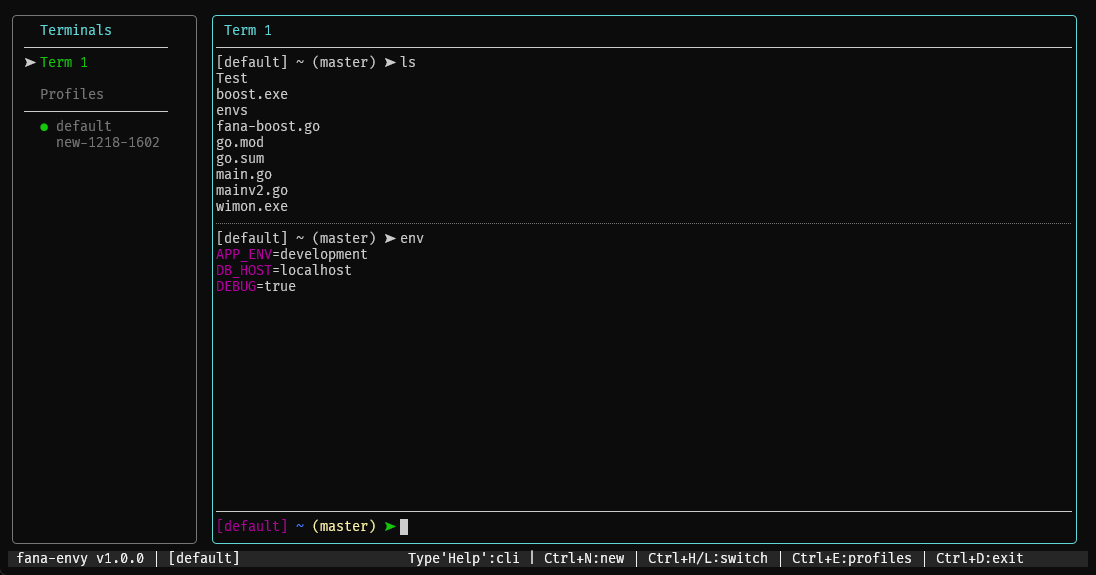
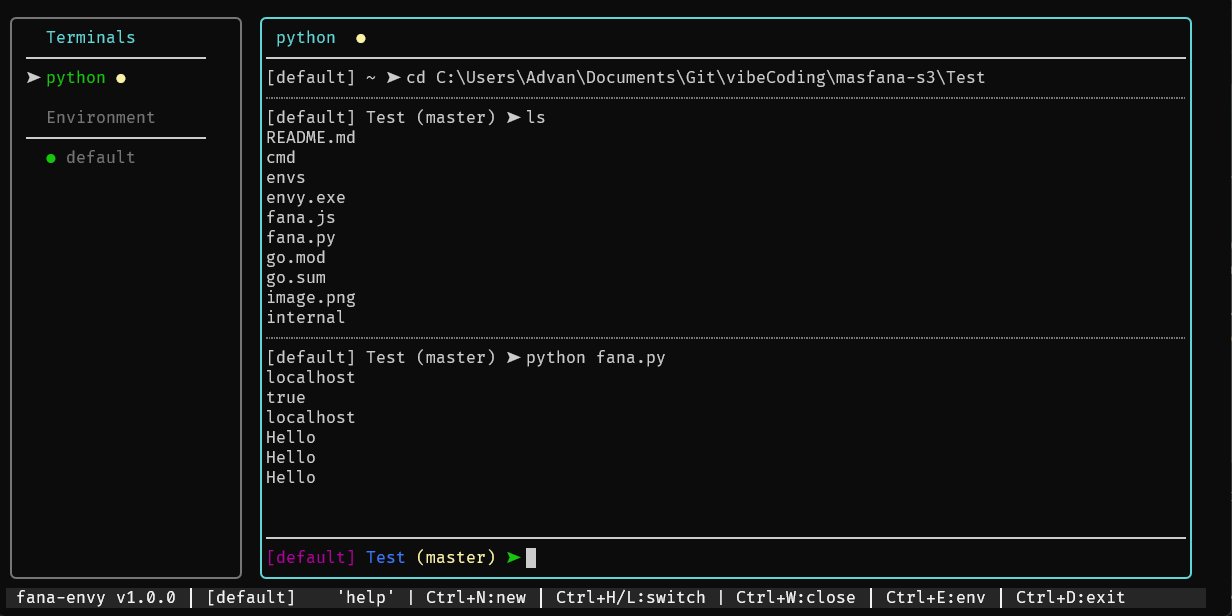
feat: introduce TUI for interactive environment and terminal management

Changed region(s): [[0.0, 0.0, 1.0, 1.0]]

diff --git a/internal/tui/commands.go b/internal/tui/commands.go
@@ -6,6 +6,7 @@ import (
 	"os"
 	"os/exec"
 	"path/filepath"
+	"runtime"
 	"sort"
 	"strings"
 	"time"
@@ -52,6 +53,24 @@ func (m Model) ExecuteCommand(input string) (tea.Model, tea.Cmd) {
 			t.AddOutput(styles.Error.Render(fmt.Sprintf("cd: %v", err)))
 		} else {
 			m.UpdateGitBranch()
+		}
+		return m, nil
+
+	case "open":
+		envDir := filepath.Join(m.ConfigPath, config.EnvFolderName)
+		var cmd *exec.Cmd
+		switch runtime.GOOS {
+		case "windows":
+			cmd = exec.Command("explorer", envDir)
+		case "darwin":
+			cmd = exec.Command("open", envDir)
+		default:
+			cmd = exec.Command("xdg-open", envDir)
+		}
+		if err := cmd.Start(); err != nil {
+			t.AddOutput(styles.Error.Render("Error opening folder: " + err.Error()))
+		} else {
+			t.AddOutput(styles.Success.Render("✓ Opened envs folder"))
 		}
 		return m, nil
 
@@ -148,6 +167,8 @@ func (m Model) ExecuteCommand(input string) (tea.Model, tea.Cmd) {
 		return m, nil
 	}
 
+	t.OriginalName = t.Name
+	t.Name = cmd
 	return m, m.RunExternalCmd(t.ID, cmd, args)
 }
 
@@ -156,13 +177,19 @@ func (m *Model) RunExternalCmd(termID int, name string, args []string) tea.Cmd {
 		for _, t := range m.Terminals {
 			if t.ID == termID {
 				c := exec.Command(name, args...)
-				c.Env = m.BuildEnv()
+				env := m.BuildEnv()
+				env = append(env, "PYTHONUNBUFFERED=1")
+				env = append(env, "FORCE_COLOR=1")
+				env = append(env, "CLICOLOR_FORCE=1")
+				c.Env = env
 
 				stdout, _ := c.StdoutPipe()
 				stderr, _ := c.StderrPipe()
+				stdin, _ := c.StdinPipe()
 
 				t.Mu.Lock()
 				t.Cmd = c
+				t.Stdin = stdin
 				t.Running = true
 				t.Mu.Unlock()
 
@@ -216,7 +243,7 @@ func (m Model) GenerateCompletions(input string) ([]string, string) {
 
 	if !strings.Contains(input, " ") {
 		start := input
-		cmds := []string{"help", "env", "set", "unset", "switch", "new", "cd", "exit", "quit", "clear", "cls"}
+		cmds := []string{"help", "env", "set", "unset", "switch", "new", "open", "cd", "exit", "quit", "clear", "cls"}
 		for _, cmd := range cmds {
 			if strings.HasPrefix(cmd, start) {
 				add(cmd)

diff --git a/internal/tui/view.go b/internal/tui/view.go
@@ -53,13 +53,13 @@ func (m Model) overlayInput(underlying string) string {
 
 	switch m.InputPurpose {
 	case "new":
-		title = " Create Profile "
-		prompt = "Enter profile name:"
+		title = " Create Environment "
+		prompt = "Enter environment name:"
 	case "delete":
 		title = " Confirm Delete "
 		prompt = "Are you sure? (y/n)"
 	case "rename":
-		title = " Rename Profile "
+		title = " Rename Environment "
 		prompt = "Enter new name:"
 	case "confirm_save":
 		title = " Unsaved Changes "
@@ -120,7 +120,7 @@ func (m Model) buildSidebar(height int) string {
 		b.WriteString(marker + style.Render(name) + status + "\n")
 	}
 
-	profTitle := "  Profiles"
+	profTitle := "  Environment"
 	if m.Mode == ModeProfiles {
 		profTitle = styles.Title.Render(profTitle)
 	} else {
@@ -246,7 +246,7 @@ func (m Model) buildProfilePane(width, height int) string {
 
 func (m Model) buildStatusBar() string {
 	left := fmt.Sprintf(" %s v%s │ [%s]", config.AppName, config.Version, m.CurrentProfile)
-	shortcuts := "'help' | Ctrl+N:new │ Ctrl+H/L:switch │ Ctrl+E:profiles │ Ctrl+D:exit"
+	shortcuts := "'help' | Ctrl+N:new │ Ctrl+H/L:switch | Ctrl+W:close │ Ctrl+E:env │ Ctrl+D:exit"
 
 	gap := m.Width - len(left) - len(shortcuts)
 	if gap < 0 {

diff --git a/cmd/fana-envy/main.go b/cmd/fana-envy/main.go
@@ -3,11 +3,16 @@ package main
 import (
 	"fmt"
 	"os"
+	"os/exec"
+	"path/filepath"
+	"runtime"
 
 	tea "github.com/charmbracelet/bubbletea"
 	"golang.org/x/sys/windows"
 
+	"github.com/MasFana/fana-envy/internal/config"
 	"github.com/MasFana/fana-envy/internal/tui"
+	"github.com/MasFana/fana-envy/internal/utils"
 )
 
 func setupConsole() {
@@ -20,6 +25,33 @@ func setupConsole() {
 }
 
 func main() {
+	if len(os.Args) > 1 && os.Args[1] == "open" {
+		exeDir := utils.GetExecutableDir()
+		envDir := filepath.Join(exeDir, config.EnvFolderName)
+		if err := os.MkdirAll(envDir, 0755); err != nil {
+			fmt.Fprintf(os.Stderr, "Error creating directory: %v\n", err)
+			os.Exit(1)
+		}
+
+		fmt.Printf("Opening %s...\n", envDir)
+
+		var cmd *exec.Cmd
+		switch runtime.GOOS {
+		case "windows":
+			cmd = exec.Command("explorer", envDir)
+		case "darwin":
+			cmd = exec.Command("open", envDir)
+		default:
+			cmd = exec.Command("xdg-open", envDir)
+		}
+
+		if err := cmd.Start(); err != nil {
+			fmt.Fprintf(os.Stderr, "Error opening folder: %v\n", err)
+			os.Exit(1)
+		}
+		return
+	}
+
 	setupConsole()
 
 	p := tea.NewProgram(

diff --git a/internal/tui/handlers.go b/internal/tui/handlers.go
@@ -18,6 +18,19 @@ func (m Model) handleTerminalKey(msg tea.KeyMsg) (tea.Model, tea.Cmd) {
 
 	switch msg.Type {
 	case tea.KeyEnter:
+		// Check if running
+		if t.Running {
+			if t.Stdin != nil {
+				// Pass to stdin
+				inputLine := t.Input.Value() + "\n"
+				t.Stdin.Write([]byte(inputLine))
+				prompt := m.buildPromptText()
+				t.AddOutput(prompt + t.Input.Value()) // Echo
+				t.Input.SetValue("")
+			}
+			return m, nil
+		}
+
 		input := strings.TrimSpace(t.Input.Value())
 		if input == "" {
 			return m, nil
@@ -35,8 +48,10 @@ func (m Model) handleTerminalKey(msg tea.KeyMsg) (tea.Model, tea.Cmd) {
 
 		t.AddOutput(prompt + input)
 
-		// Add to history
-		m.History = append(m.History, input)
+		// Add to history (if not same as last)
+		if len(m.History) == 0 || m.History[len(m.History)-1] != input {
+			m.History = append(m.History, input)
+		}
 		m.HistoryIdx = len(m.History)
 		utils.SaveHistory(m.ConfigPath, m.History)
 

diff --git a/internal/terminal/pane.go b/internal/terminal/pane.go
@@ -2,6 +2,7 @@ package terminal
 
 import (
 	"fmt"
+	"io"
 	"os/exec"
 	"strings"
 	"sync"
@@ -13,14 +14,16 @@ import (
 
 // TerminalPane represents a single terminal session
 type TerminalPane struct {
-	ID       int
-	Name     string
-	Output   []string
-	Input    textinput.Model
-	Viewport viewport.Model
-	Cmd      *exec.Cmd
-	Running  bool
-	Mu       sync.Mutex
+	ID           int
+	Name         string
+	Output       []string
+	Input        textinput.Model
+	Viewport     viewport.Model
+	Cmd          *exec.Cmd
+	Stdin        io.WriteCloser
+	Running      bool
+	Mu           sync.Mutex
+	OriginalName string
 }
 
 func NewTerminalPane(id int) *TerminalPane {

diff --git a/internal/tui/update.go b/internal/tui/update.go
@@ -45,6 +45,10 @@ func (m Model) Update(msg tea.Msg) (tea.Model, tea.Cmd) {
 				if msg.Err != nil {
 					t.AddOutput(styles.Error.Render(fmt.Sprintf("Exit: %v", msg.Err)))
 				}
+				if t.OriginalName != "" {
+					t.Name = t.OriginalName
+					t.OriginalName = ""
+				}
 				break
 			}
 		}

diff --git a/internal/tui/helpers.go b/internal/tui/helpers.go
@@ -204,7 +204,7 @@ func (m *Model) GetHelp() string {
   unset K       Remove variable
   switch NAME   Change profile
   new NAME      Create profile
-  cd [DIR]      Change directory
+  open          Open envs folder
   clear         Clear terminal
   exit          Quit
 

diff --git a/README.md b/README.md
@@ -1,23 +1,28 @@
 # Fana-Envy
 
-Fana-Envy is a powerful, persistent terminal environment manager built with Go. It allows you to manage environment variables with TUI.
+Fana-Envy is a powerful, persistent terminal environment manager built with Go. It allows you to manage environment variables with a TUI, featuring interactive terminals, persistent history, and seamless environment switching.
 
 ![fana-envy UI](image.png)
 
 ## Features
 
-- **Environment Profiles**: Switch between sets of environment variables instantly.
-- **Multiple Terminals**: Manage multiple terminal instances in tabs/panes.
-- **Persistent History**: Command history is saved relative to the application binary, ensuring consistency across invocations.
-- **Profile Editor**: Built-in editor to modify environment variables on the fly.
-- **Cross-Platform**: Designed for Windows (with extensive terminal support) but structured for portability.
+- **Environments**: Switch between sets of environment variables instantly (renamed from Profiles).
+- **Multiple Terminals**: Manage multiple terminal instances in tabs/panes with dynamic naming (e.g., changes to `python` when running python).
+- **Interactive Experience**:
+  - Full support for interactive commands (e.g., Python `input()`, REPLs).
+  - **Unbuffered Output**: Automatically injects `PYTHONUNBUFFERED=1` so Python scripts output immediately.
+  - **Colored Output**: Forces color output (`FORCE_COLOR=1`, `CLICOLOR_FORCE=1`) for better visibility in the TUI.
+- **Persistent History**: Command history is saved relative to the application binary and deduplicated to avoid clutter.
+- **Environment Editor**: Built-in editor to modify environment variables on the fly (`.env` format).
+- **Cross-Platform**: Works on Windows, macOS, and Linux.
+- **Portable**: Configuration and history are stored next to the executable.
 
 ## Installation
 
 ```bash
 git clone https://github.com/MasFana/fana-envy.git
 cd fana-envy
-go build ./cmd/fana-envy
+go build -o envy.exe ./cmd/fana-envy
 ```
 
 ## Usage
@@ -25,23 +30,32 @@ go build ./cmd/fana-envy
 Run the executable:
 
 ```bash
-./fana-envy
+./envy.exe
 ```
 
 ### Shortcuts
 
-- `Ctrl+N`: New Terminal
-- `Ctrl+H` / `Ctrl+L`: Switch Terminal Left/Right
-- `Ctrl+E`: Toggle Profile Editor
-- `Ctrl+D`: Exit
+| Shortcut            | Description                |
+| ------------------- | -------------------------- |
+| `Ctrl+N`            | New Terminal               |
+| `Ctrl+W`            | Close Terminal             |
+| `Ctrl+H` / `Ctrl+L` | Switch Terminal Left/Right |
+| `Ctrl+E`            | Toggle Environment Editor  |
+| `Ctrl+D`            | Exit Application           |
 
 ### Commands
 
-- `new <name>`: Create a new profile
-- `switch <name>`: Switch to a profile
-- `set <KEY> <VALUE>`: Set an environment variable
-- `unset <KEY>`: Remove a variable
-- `cd <path>`: Change directory
+| Command             | Description                                           |
+| ------------------- | ----------------------------------------------------- |
+| `open`              | Open the `envs` folder in your system's file explorer |
+| `new <name>`        | Create a new environment                              |
+| `switch <name>`     | Switch to an environment                              |
+| `set <KEY> <VALUE>` | Set an environment variable                           |
+| `unset <KEY>`       | Remove a variable                                     |
+| `cd <path>`         | Change directory                                      |
+| `env`               | List current environment variables                    |
+| `clear`             | Clear terminal output                                 |
+| `exit`              | Quit the application                                  |
 
 ## Folder Structure
 
@@ -50,17 +64,16 @@ The project follows the standard Go project layout:
 ```
 fana-envy/
 ├── cmd/
-│   └── fana-envy/
-│       └── main.go       # Entry point
+│   └── fana-envy/    # Entry point
 ├── internal/
-│   ├── config/           # Configuration loading/saving
-│   ├── styles/           # UI styling (Lipgloss)
-│   ├── terminal/         # Terminal pane logic
-│   ├── tui/              # Main Bubble Tea model & view
-│   └── utils/            # Helper functions
+│   ├── config/       # Configuration & History
+│   ├── styles/       # UI styling (Lipgloss)
+│   ├── terminal/     # Terminal pane logic
+│   ├── tui/          # Main Bubble Tea model & view
+│   └── utils/        # Helper functions
 └── README.md
 ```
 
 ## Configuration
 
-Configuration files (`.env` profiles) and history (`.fana_history`) are stored in the directory where the binary is located. This allows you to carry the tool on a USB drive or move it between folders without losing your settings.
+Configuration files (`envs/*.env`) and history (`.fana_history`) are stored in the directory where the binary is located. This allows you to carry the tool on a USB drive or move it between folders without losing your settings.
